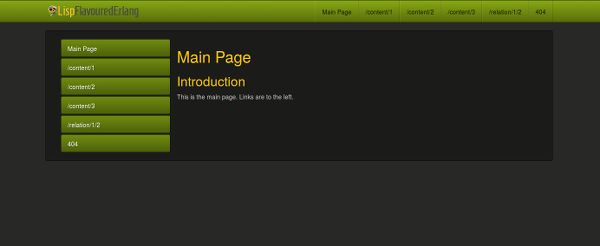
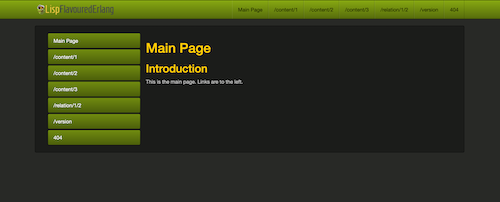
Updated demo to use new Docker images for LFE/YAWS.

diff --git a/README.md b/README.md
@@ -9,7 +9,6 @@
 * [Dependencies](#dependencies-)
 * [Starting](#starting-)
 * [Viewing](#viewing-)
-* [Docker](#docker-)
 
 
 ## Introduction [&#x219F;](#contents)
@@ -20,13 +19,7 @@ additional supporting libraries.
 
 ## Dependencies [&#x219F;](#contents)
 
-This demo assumes you have the following installed on your system:
-
-* Erlang
-* ``build-essential`` or the equivalent developer tools (including
-  autotools, ``make``, and ``gcc``)
-* Any system-specific YAWS dependencies (e.g., ``libpam0g-dev`` on Ubuntu)
-* ``rebar3``
+This demo assumes you have `docker` installed on your system -- that's it!
 
 
 ## Starting [&#x219F;](#contents)
@@ -37,25 +30,26 @@ To run the sample LFE/YAWS app, just do:
 $ make run
 ```
 
-This will download and build the dependencies as well as attempt to compile
-YAWS for you. If you are not running on Linux, this may not work and you will
-need to swtch to ``_build/default/lib/yaws``, scan the ``README``s and then
-build.
+Or, if you don't want to download this repo, you can just do this instead:
 
-After a successful ``make run`` you will see output like the following:
+```bash
+$ docker run -it -p 5099:5099 lfex/lfeyawsdemo
+```
+
+The make target will build and run the app, the `docker` command will just 
+download the pre-build Docker image.
+
+After a short while, you will see output like the following:
 
 ```
-=INFO REPORT==== 8-Apr-2016::19:50:15 ===
-yaws debug:Running with id="lfeyawsdemo"
-Running with debug checks turned on (slower server)
-Logging to directory "lfeyawsdemo/log"
+2019-05-17 00:41:19.894 [<0.134.0>] [info] Yaws: Listening to 0.0.0.0:5099 for <1> virtual servers:
+ - http://localhost:5099 under /lfeyawsdemo/priv/www
 ```
 
 
 ## Viewing [&#x219F;](#contents)
 
-Once your ``make run`` command shows YAWS starting, it's ready to view in a
-browser:
+As soon as you see the above message in the output, you're ready to visit the site:
 
 * [localhost:5099](http://localhost:5099/)
 
@@ -63,14 +57,11 @@ This should load up a page that looks like the following:
 
 [![][screen]][screen-large]
 
+If you're curious about the dependencies and versions, there's a page for that, too ;-)
+
+[![][screen-versions]][screen-versions-large]
+
 [screen]: priv/www/images/screenshot-thumb.png
 [screen-large]: https://raw.githubusercontent.com/lfex/yaws-sample-app/master/priv/www/images/screenshot.png
-
-
-## Docker [&#x219F;](#contents)
-
-This project was originally derrived from the
-[LFE/YAWS Docker sample app](https://github.com/lfex/docker-lfe-yaws-sample-app).
-However, after that code was used to generate the lfeyawsdemo project, the
-original was updated to use the new lfeyawsdemo project. As such, both projects
-now use the same code.
+[screen-versions]: priv/www/images/screenshot-versions-thumb.png
+[screen-versions-large]: https://raw.githubusercontent.com/lfex/yaws-sample-app/master/priv/www/images/screenshot-versions.png
